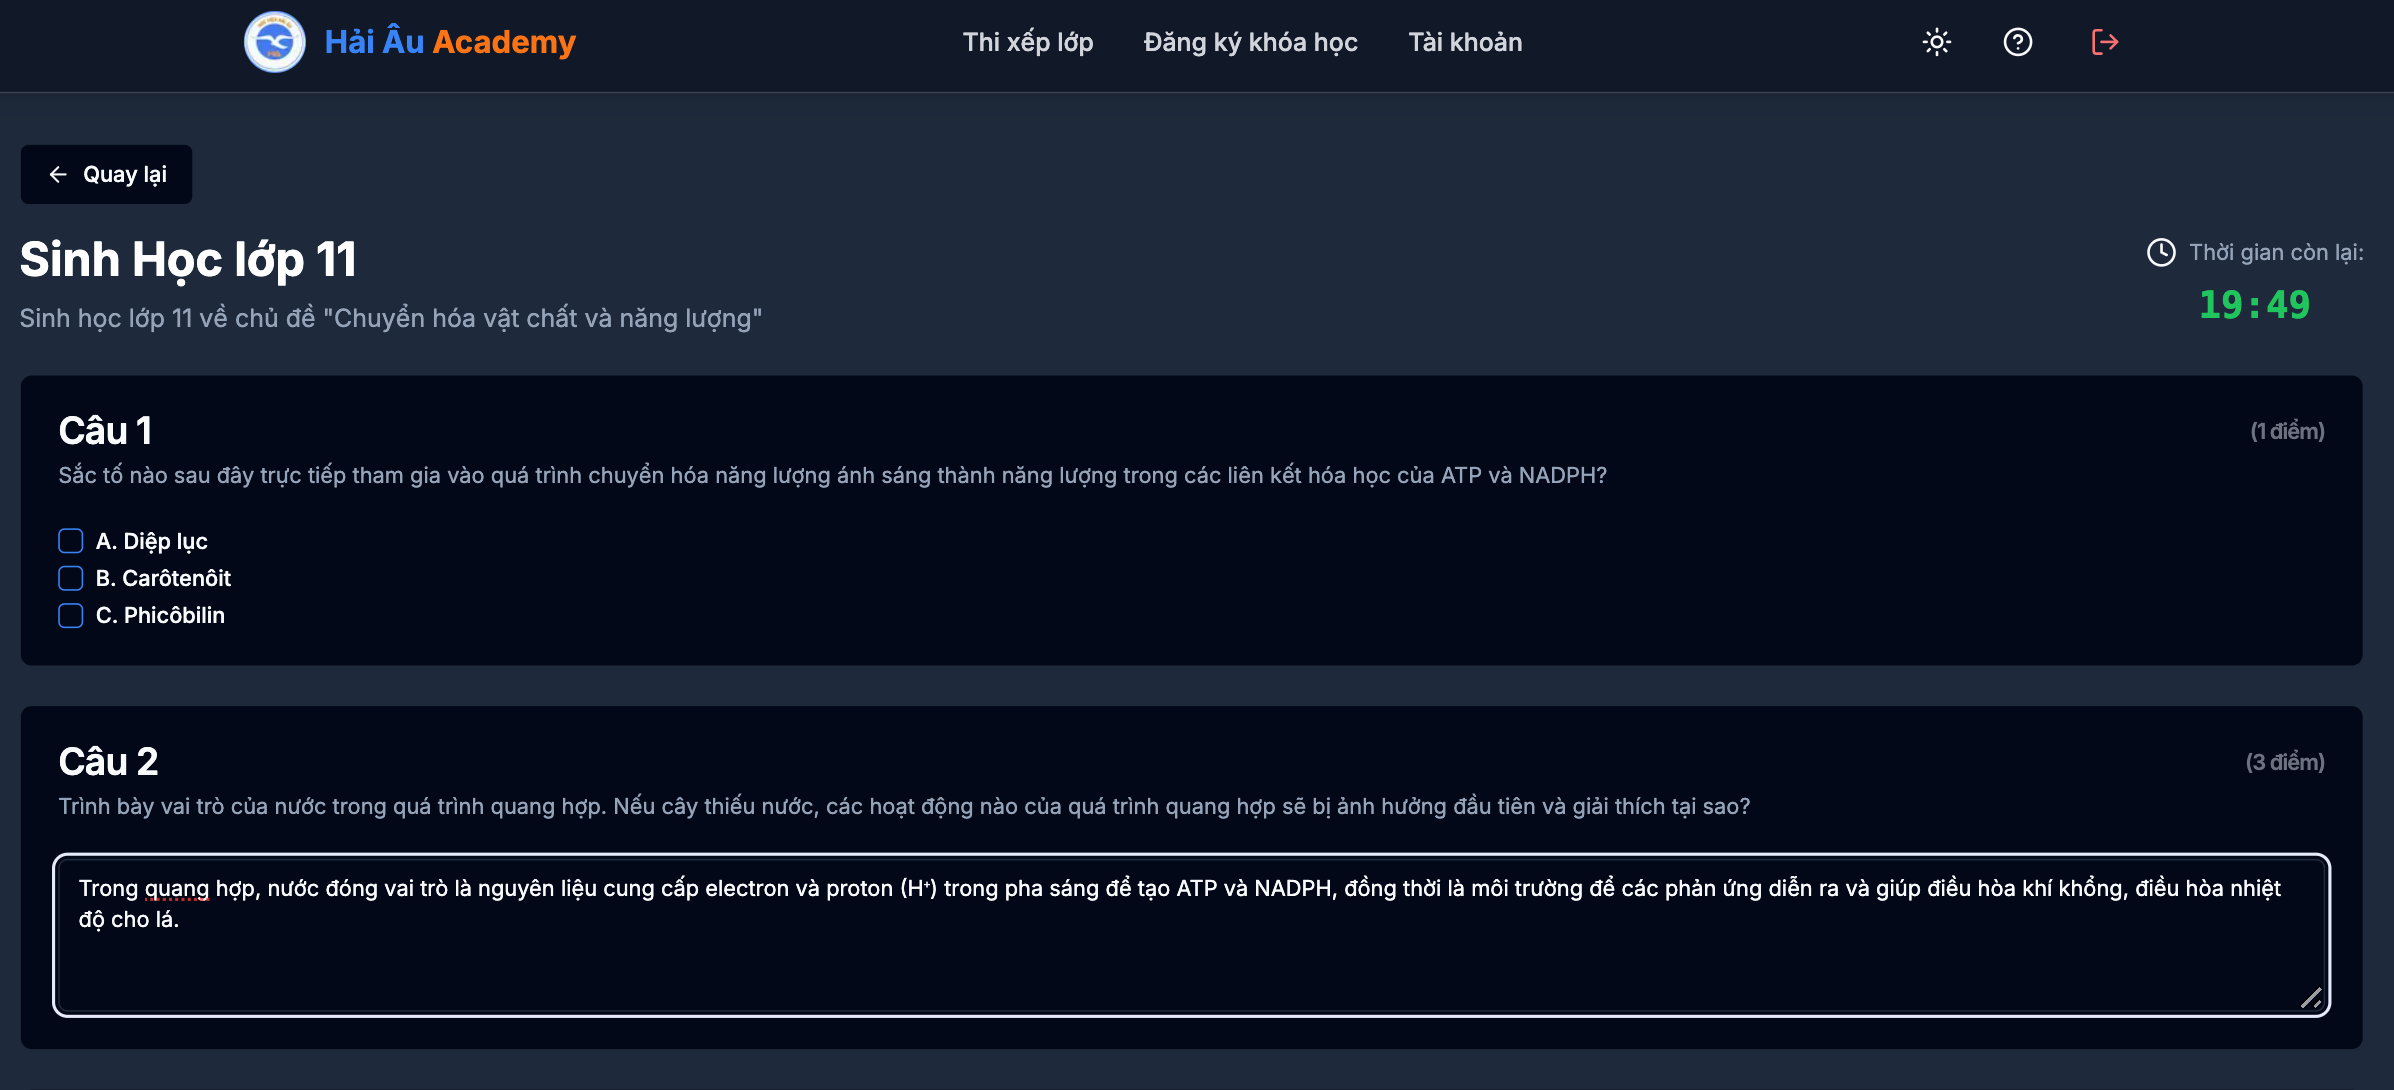
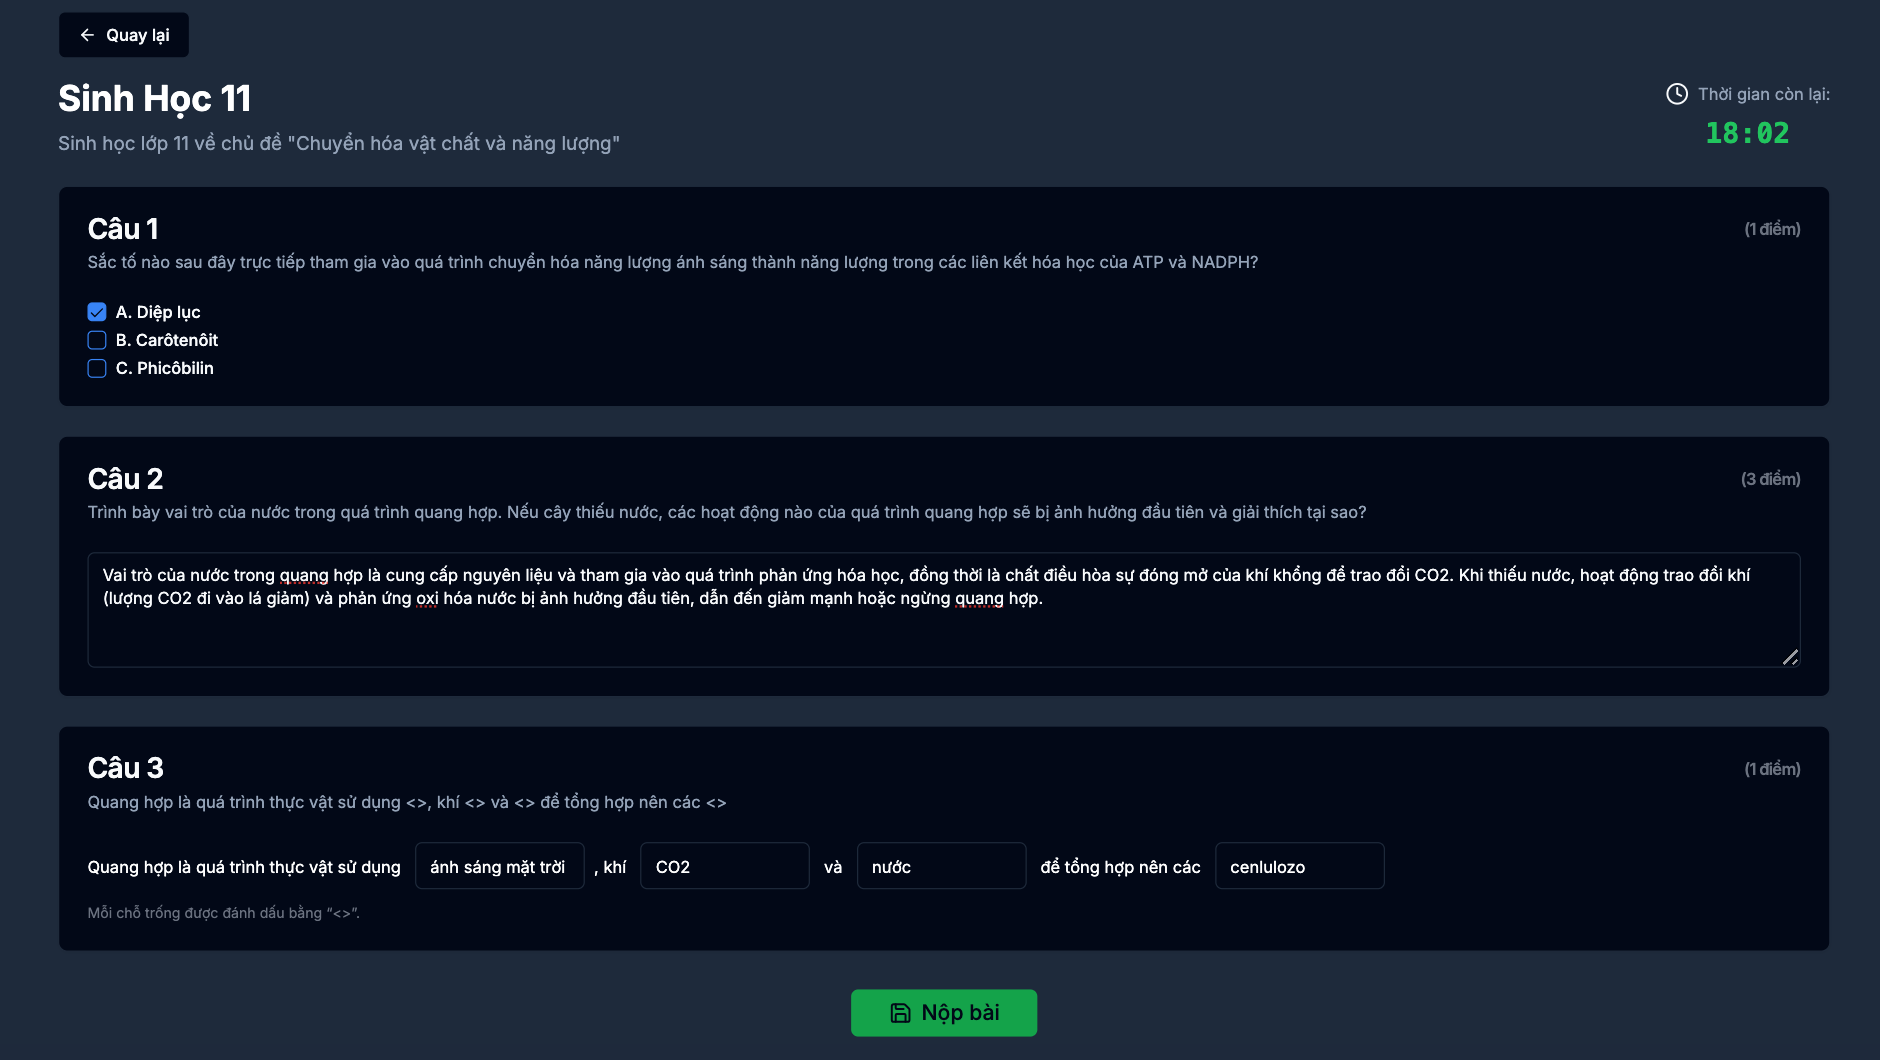
Upd thi-xep-lop display test done

diff --git a/src/app/student/thi-xep-lop/page.tsx b/src/app/student/thi-xep-lop/page.tsx
@@ -91,6 +91,8 @@ export default function ExamPlacementPage() {
   const [examResult, setExamResult] = useState<ExamResult | null>(null)
   const [student, setStudent] = useState<Student | null>(null)
   const [testAssignment, setTestAssignment] = useState<TestAssignment | TestAssignment[] | null>(null)
+  const [activeAssignments, setActiveAssignments] = useState<TestAssignment[]>([])
+  const [completedAssignments, setCompletedAssignments] = useState<TestAssignment[]>([])
   const [isLoading, setIsLoading] = useState(true)
   const [selectedClassDetails, setSelectedClassDetails] = useState<ClassDetails | null>(null)
   const [isModalOpen, setIsModalOpen] = useState(false)
@@ -168,7 +170,7 @@ export default function ExamPlacementPage() {
         console.log("🔍 Student response not ok:", studentResponse.status)
       }
 
-      // Fetch test assignment for student
+      // Fetch test assignment for student (legacy - single active assignment)
       if (session?.user?.role === "student") {
         console.log("🔍 Fetching test assignment for student role")
         console.log("🔍 Session user ID:", session.user.id)
@@ -196,6 +198,47 @@ export default function ExamPlacementPage() {
           } catch (e) {
             console.log("🔍 Could not parse error response")
           }
+        }
+      }
+
+      // Fetch all assignments (active + completed) for richer UI states
+      if (session?.user?.role === "student") {
+        const allResp = await fetch('/api/tests/student/assignments')
+        if (allResp.ok) {
+          const data = await allResp.json()
+
+          const dedupeByTest = (arr: TestAssignment[], preferCompleted: boolean) => {
+            const map = new Map<string, TestAssignment>()
+            for (const a of arr) {
+              const key = a.test?.id
+              if (!key) continue
+              const existing = map.get(key)
+              if (!existing) {
+                map.set(key, a)
+              } else {
+                // Prefer the latest by completedAt/assignedAt
+                const existingDate = (existing.completedAt || existing.assignedAt) as unknown as string
+                const currentDate = (a.completedAt || a.assignedAt) as unknown as string
+                if (new Date(currentDate).getTime() > new Date(existingDate).getTime()) {
+                  map.set(key, a)
+                }
+              }
+            }
+            return Array.from(map.values())
+          }
+
+          const rawActive: TestAssignment[] = data.activeAssignments || []
+          const rawCompleted: TestAssignment[] = data.completedAssignments || []
+
+          // If a test id appears in both active and completed, keep it in completed only
+          const completedByTest = new Set(rawCompleted.map((a: TestAssignment) => a.test?.id))
+          const filteredActive = rawActive.filter((a: TestAssignment) => !completedByTest.has(a.test?.id))
+
+          const dedupedActive = dedupeByTest(filteredActive, false)
+          const dedupedCompleted = dedupeByTest(rawCompleted, true)
+
+          setActiveAssignments(dedupedActive)
+          setCompletedAssignments(dedupedCompleted)
         }
       }
     } catch (error) {
@@ -253,22 +296,23 @@ export default function ExamPlacementPage() {
             </CardDescription>
           </CardHeader>
           <CardContent>
-            {testAssignment ? (
+            {activeAssignments.length > 0 || (completedAssignments.length > 0 && examResult) ? (
               // SCENARIO 2: Student has been assigned a test (regardless of exam results)
               <div className="space-y-6">
                 <div className="text-center">
                   <div className="flex justify-center mb-4">
                     <Clock className="w-16 h-16 text-blue-500" />
                   </div>
-                  <h3 className="text-xl font-semibold text-blue-600 mb-2">
-                    Bạn có đề thi cần làm
-                  </h3>
+                  {activeAssignments.length > 0 ? (
+                    <h3 className="text-xl font-semibold text-blue-600 mb-2">Bạn có đề thi cần làm</h3>
+                  ) : (
+                    <h3 className="text-xl font-semibold text-green-600 mb-2">Bạn đã hoàn thành đề thi được giao</h3>
+                  )}
                   
-                  {/* Handle multiple test assignments */}
-                  {Array.isArray(testAssignment) ? (
-                    // Multiple test assignments
+                  {/* Active assignments */}
+                  {activeAssignments.length > 0 && (
                     <div className="space-y-4">
-                      {testAssignment.map((assignment, index) => (
+                      {activeAssignments.map((assignment) => (
                         <div key={assignment.id} className="bg-blue-50 p-6 rounded-lg border border-blue-200">
                           <div className="text-lg font-semibold text-blue-700 mb-2">
                             {assignment.test.title}
@@ -290,26 +334,31 @@ export default function ExamPlacementPage() {
                         </div>
                       ))}
                     </div>
-                  ) : (
-                    // Single test assignment
-                    <div className="bg-blue-50 p-6 rounded-lg border border-blue-200">
-                      <div className="text-lg font-semibold text-blue-700 mb-2">
-                        {testAssignment.test.title}
-                      </div>
-                      <div className="text-blue-600 mb-3">
-                        Thời gian làm bài: {testAssignment.test.duration} phút
-                      </div>
-                      {testAssignment.test.description && (
-                        <div className="text-sm text-blue-500 mb-4">
-                          {testAssignment.test.description}
+                  )}
+
+                  {/* Completed assignments */}
+                  {completedAssignments.length > 0 && examResult && (
+                    <div className="space-y-4 mt-6">
+                      {completedAssignments.map((assignment) => (
+                        <div key={assignment.id} className="bg-green-50 p-6 rounded-lg border border-green-200">
+                          <div className="flex items-center justify-between">
+                            <div>
+                              <div className="text-lg font-semibold text-green-700 mb-1">
+                                {assignment.test.title}
+                              </div>
+                              <div className="text-green-700 text-sm">
+                                Đã hoàn thành vào: {assignment.completedAt ? new Date(assignment.completedAt).toLocaleString('vi-VN') : '—'}
+                              </div>
+                              <div className="text-green-700 text-sm">
+                                Điểm: {typeof assignment.score === 'number' ? `${assignment.score}/${assignment.test.questions.reduce((s,q)=>s+q.score,0)}` : 'Chưa có'}
+                              </div>
+                            </div>
+                            <div className="text-green-600 text-sm font-medium">
+                              Đã hoàn thành
+                            </div>
+                          </div>
                         </div>
-                      )}
-                      <Button
-                        onClick={() => router.push(`/student/lam-bai-thi?testId=${testAssignment.test.id}`)}
-                        className="bg-blue-600 hover:bg-blue-700 text-white px-6 py-2"
-                      >
-                        Làm bài thi: {testAssignment.test.title}
-                      </Button>
+                      ))}
                     </div>
                   )}
                 </div>
@@ -330,6 +379,24 @@ export default function ExamPlacementPage() {
                     </div>
                     <div className="text-sm text-gray-600 mt-2">
                       Ngày thi: {new Date(examResult.examDate).toLocaleDateString('vi-VN')}
+                    </div>
+                  </div>
+                </div>
+              </div>
+            ) : completedAssignments.length > 0 ? (
+              // SCENARIO 1b: All assigned tests submitted but no marking/result yet
+              <div className="text-center space-y-4">
+                <div className="flex justify-center mb-2">
+                  <Clock className="w-16 h-16 text-orange-500" />
+                </div>
+                <h3 className="text-xl font-semibold text-orange-600">Chưa có kết quả thi</h3>
+                <p className="text-gray-600">Kết quả thi xếp lớp của bạn chưa được cập nhật.</p>
+                <div className="bg-orange-50 p-4 rounded-lg border border-orange-200 max-w-xl mx-auto">
+                  <div className="flex items-start space-x-2">
+                    <AlertCircle className="w-5 h-5 text-orange-600 mt-0.5 flex-shrink-0" />
+                    <div className="text-orange-800 text-sm text-left">
+                      <p className="font-medium mb-1">Lưu ý:</p>
+                      <p>Nếu bạn chưa thực hiện bài thi xếp lớp, vui lòng liên hệ với nhân viên để được sắp xếp lịch thi phù hợp.</p>
                     </div>
                   </div>
                 </div>

diff --git a/src/app/teacher/xem-de-thi/[id]/page.tsx b/src/app/teacher/xem-de-thi/[id]/page.tsx
@@ -159,7 +159,7 @@ export default function ViewTestPage({ params }: { params: Promise<{ id: string 
                 Quay lại
               </Button>
               <div>
-                <h1 className="text-3xl font-bold text-gray-900">{test.title}</h1>
+                <h1 className="text-3xl font-bold dark:text-white text-gray-900">{test.title}</h1>
                 <p className="text-gray-600">{test.description || "Không có mô tả"}</p>
               </div>
             </div>
@@ -246,7 +246,7 @@ export default function ViewTestPage({ params }: { params: Promise<{ id: string 
                     </div>
 
                     <div className="mb-4">
-                      <p className="text-gray-900 font-medium">{question.questionText}</p>
+                      <p className="text-gray-900 dark:text-white font-medium">{question.questionText}</p>
                     </div>
 
                     {/* MCQ Options */}
@@ -254,7 +254,7 @@ export default function ViewTestPage({ params }: { params: Promise<{ id: string 
                       <div className="space-y-2">
                         {question.options.map((option) => (
                           <div key={option.id} className="flex items-center space-x-2">
-                            <div className={`w-6 h-6 rounded border-2 flex items-center justify-center text-sm font-medium ${
+                            <div className={`w-6 h-6 rounded border-2 flex items-center justify-center dark:bg-gray-700 dark:text-white text-sm font-medium ${
                               option.isCorrect 
                                 ? 'border-green-500 bg-green-100 text-green-700' 
                                 : 'border-gray-300 text-gray-500'
@@ -273,7 +273,27 @@ export default function ViewTestPage({ params }: { params: Promise<{ id: string 
                     {/* Fill in the blank content */}
                     {question.questionType === 'fill_blank' && question.fillBlankContent && (
                       <div className="bg-gray-50 p-3 rounded border">
-                        <p className="text-gray-700 text-sm">{question.fillBlankContent}</p>
+                        <div className="text-gray-700 text-sm">
+                          {(() => {
+                            const parts = (question.fillBlankContent || '').split(/<>/g)
+                            const blanks = Math.max(0, parts.length - 1)
+                            return (
+                              <span>
+                                {parts.map((p, i) => (
+                                  <span key={i}>
+                                    {p}
+                                    {i < blanks && (
+                                      <span
+                                        className="inline-block align-baseline mx-1 h-7 min-w-[96px] border border-gray-300 rounded-md bg-white"
+                                        aria-hidden="true"
+                                      />
+                                    )}
+                                  </span>
+                                ))}
+                              </span>
+                            )
+                          })()}
+                        </div>
                       </div>
                     )}
 

diff --git a/src/app/api/tests/student/assignments/route.ts b/src/app/api/tests/student/assignments/route.ts
@@ -1,0 +1,46 @@
+import { NextRequest, NextResponse } from "next/server"
+import { getServerSession } from "next-auth"
+import { authOptions } from "@/lib/auth"
+import { prisma } from "@/lib/db"
+
+// GET /api/tests/student/assignments - Get all student's test assignments (active and completed)
+export async function GET(request: NextRequest) {
+  try {
+    const session = await getServerSession(authOptions)
+
+    if (!session || session.user?.role !== "student") {
+      return NextResponse.json({ error: "Unauthorized" }, { status: 401 })
+    }
+
+    const studentId = session.user.id
+
+    const assignments = await prisma.testAssignment.findMany({
+      where: { studentId },
+      include: {
+        test: {
+          include: {
+            questions: {
+              include: {
+                options: { orderBy: { order: 'asc' } },
+                mappingColumns: { orderBy: { order: 'asc' } }
+              },
+              orderBy: { order: 'asc' }
+            }
+          }
+        }
+      },
+      orderBy: { assignedAt: 'desc' }
+    })
+
+    // Treat both undefined and null as not completed (Mongo can return null)
+    const activeAssignments = assignments.filter(a => !a.completedAt)
+    const completedAssignments = assignments.filter(a => !!a.completedAt)
+
+    return NextResponse.json({ activeAssignments, completedAssignments })
+  } catch (error) {
+    console.error("Error fetching student assignments:", error)
+    return NextResponse.json({ error: "Internal server error" }, { status: 500 })
+  }
+}
+
+

diff --git a/src/app/student/lam-bai-thi/page.tsx b/src/app/student/lam-bai-thi/page.tsx
@@ -379,7 +379,7 @@ export default function LamBaiThiPage() {
 
                 {question.questionType === 'fill_blank' && question.fillBlankContent && (
                   <div className="space-y-3">
-                    <div className="text-sm text-gray-800 mb-3">
+                    <div className="text-sm text-gray-800 dark:text-white mb-3">
                       {(() => {
                         // Parse <> markers into inputs
                         const parts = question.fillBlankContent.split(/<>/g)
@@ -541,7 +541,7 @@ export default function LamBaiThiPage() {
             <div className="bg-white rounded-lg p-6 max-w-md mx-4">
               <div className="flex items-center mb-4">
                 <AlertTriangle className="h-6 w-6 text-orange-500 mr-2" />
-                <h3 className="text-lg font-medium">Xác nhận nộp bài</h3>
+                <h3 className="text-lg text-red-500 font-medium">Xác nhận nộp bài</h3>
               </div>
               <p className="text-gray-600 mb-6">
                 Thời gian làm bài chưa hết. Bạn có chắc chắn muốn nộp bài ngay bây giờ?
